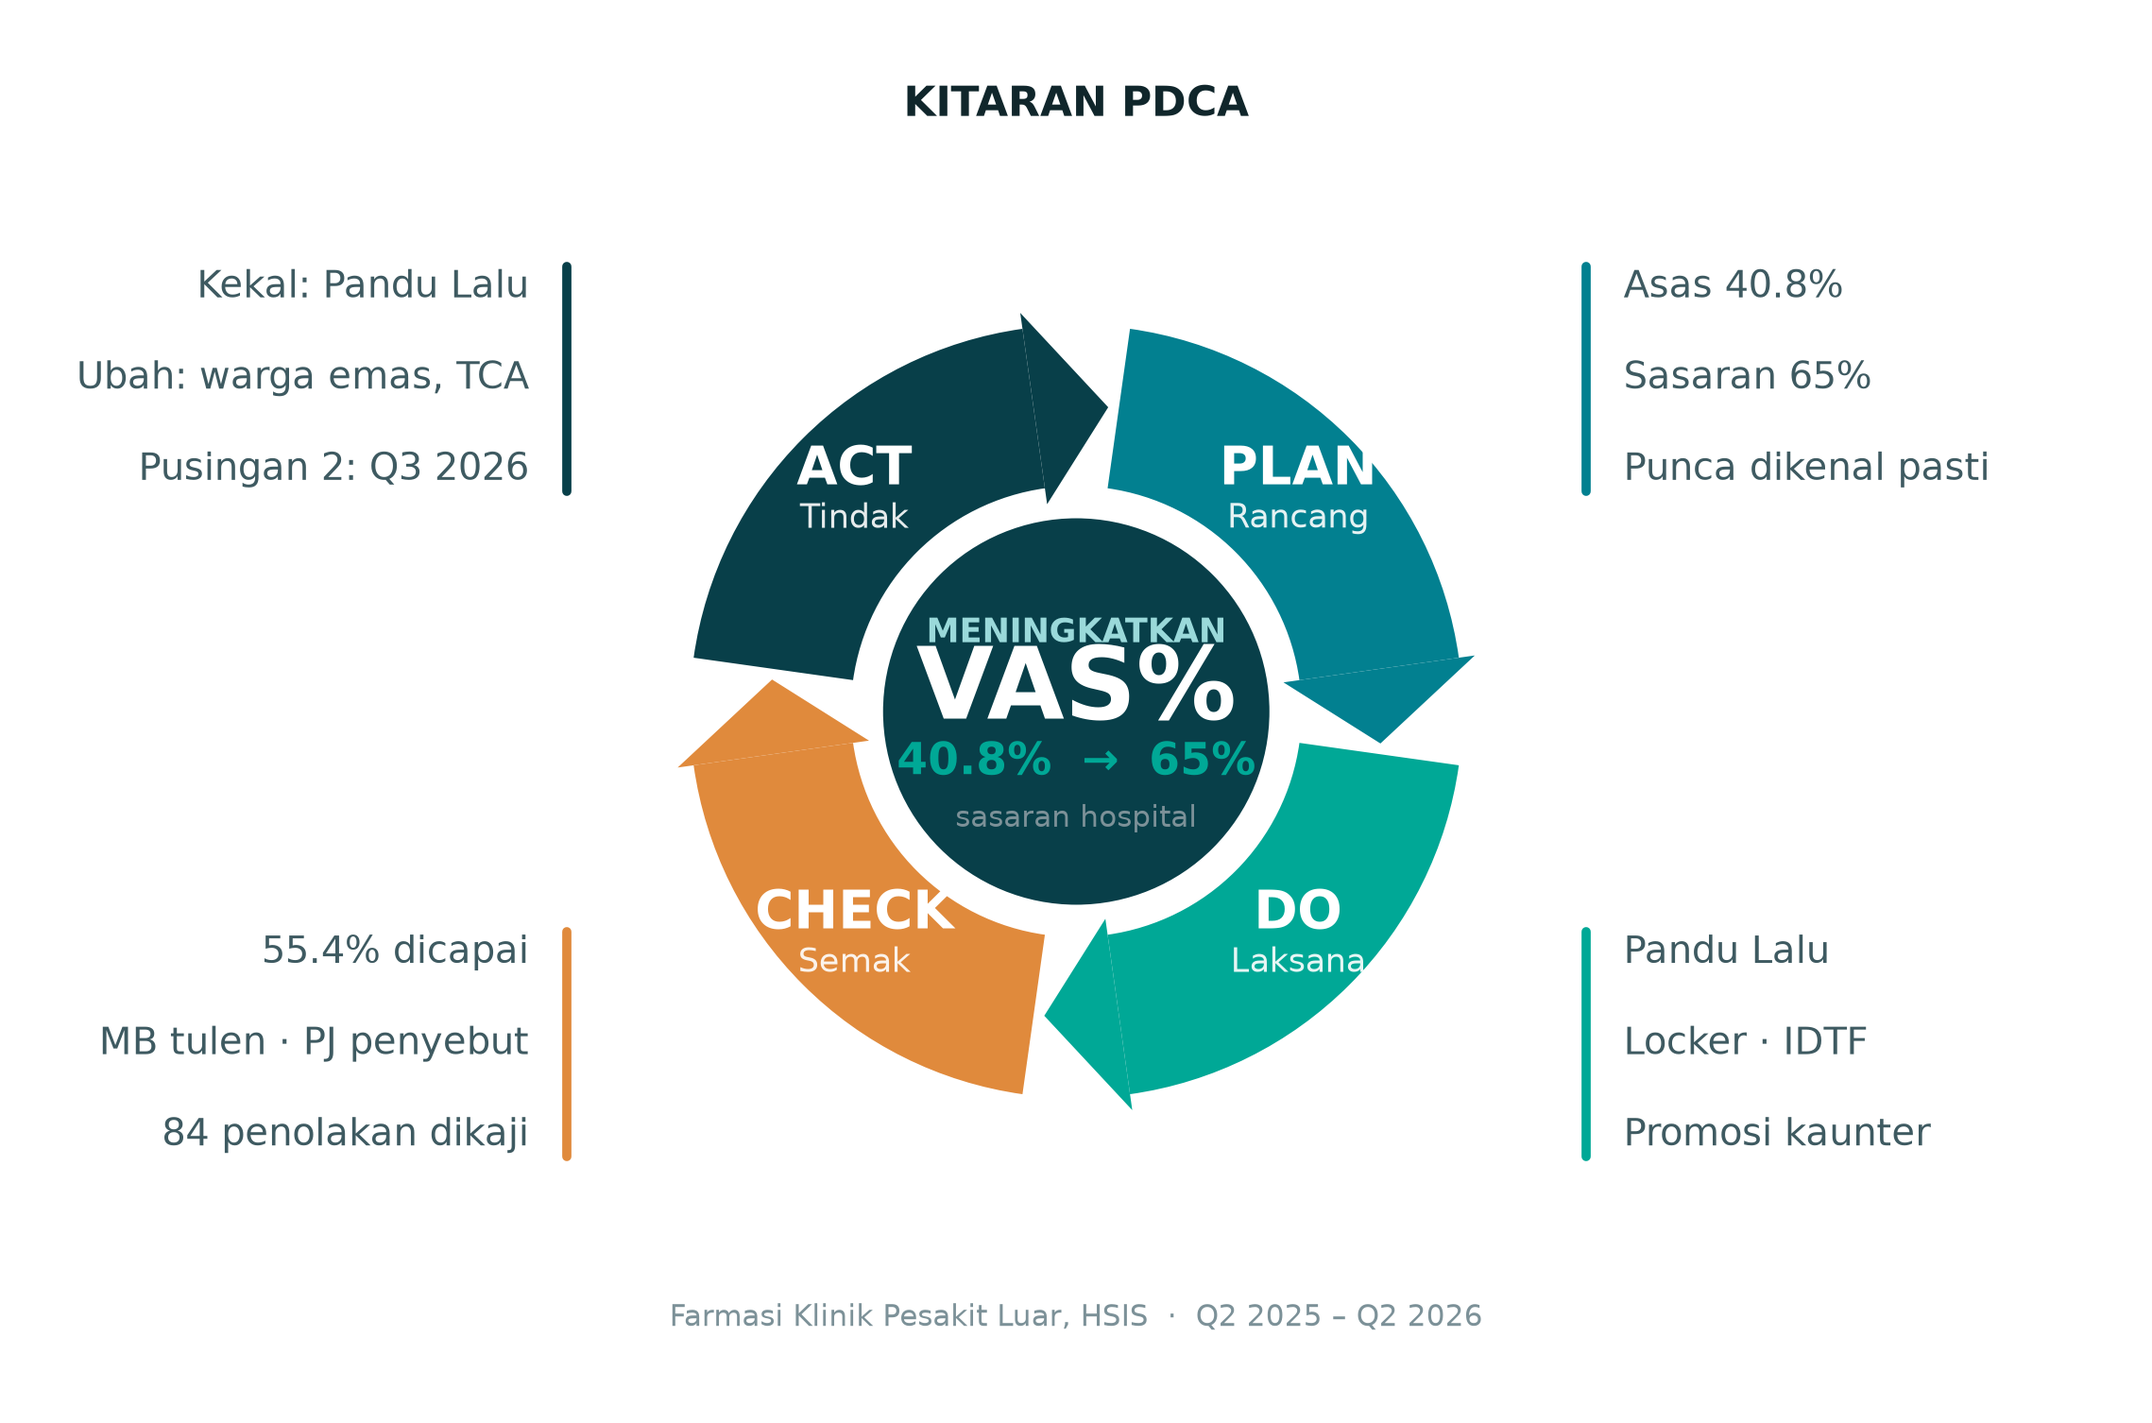
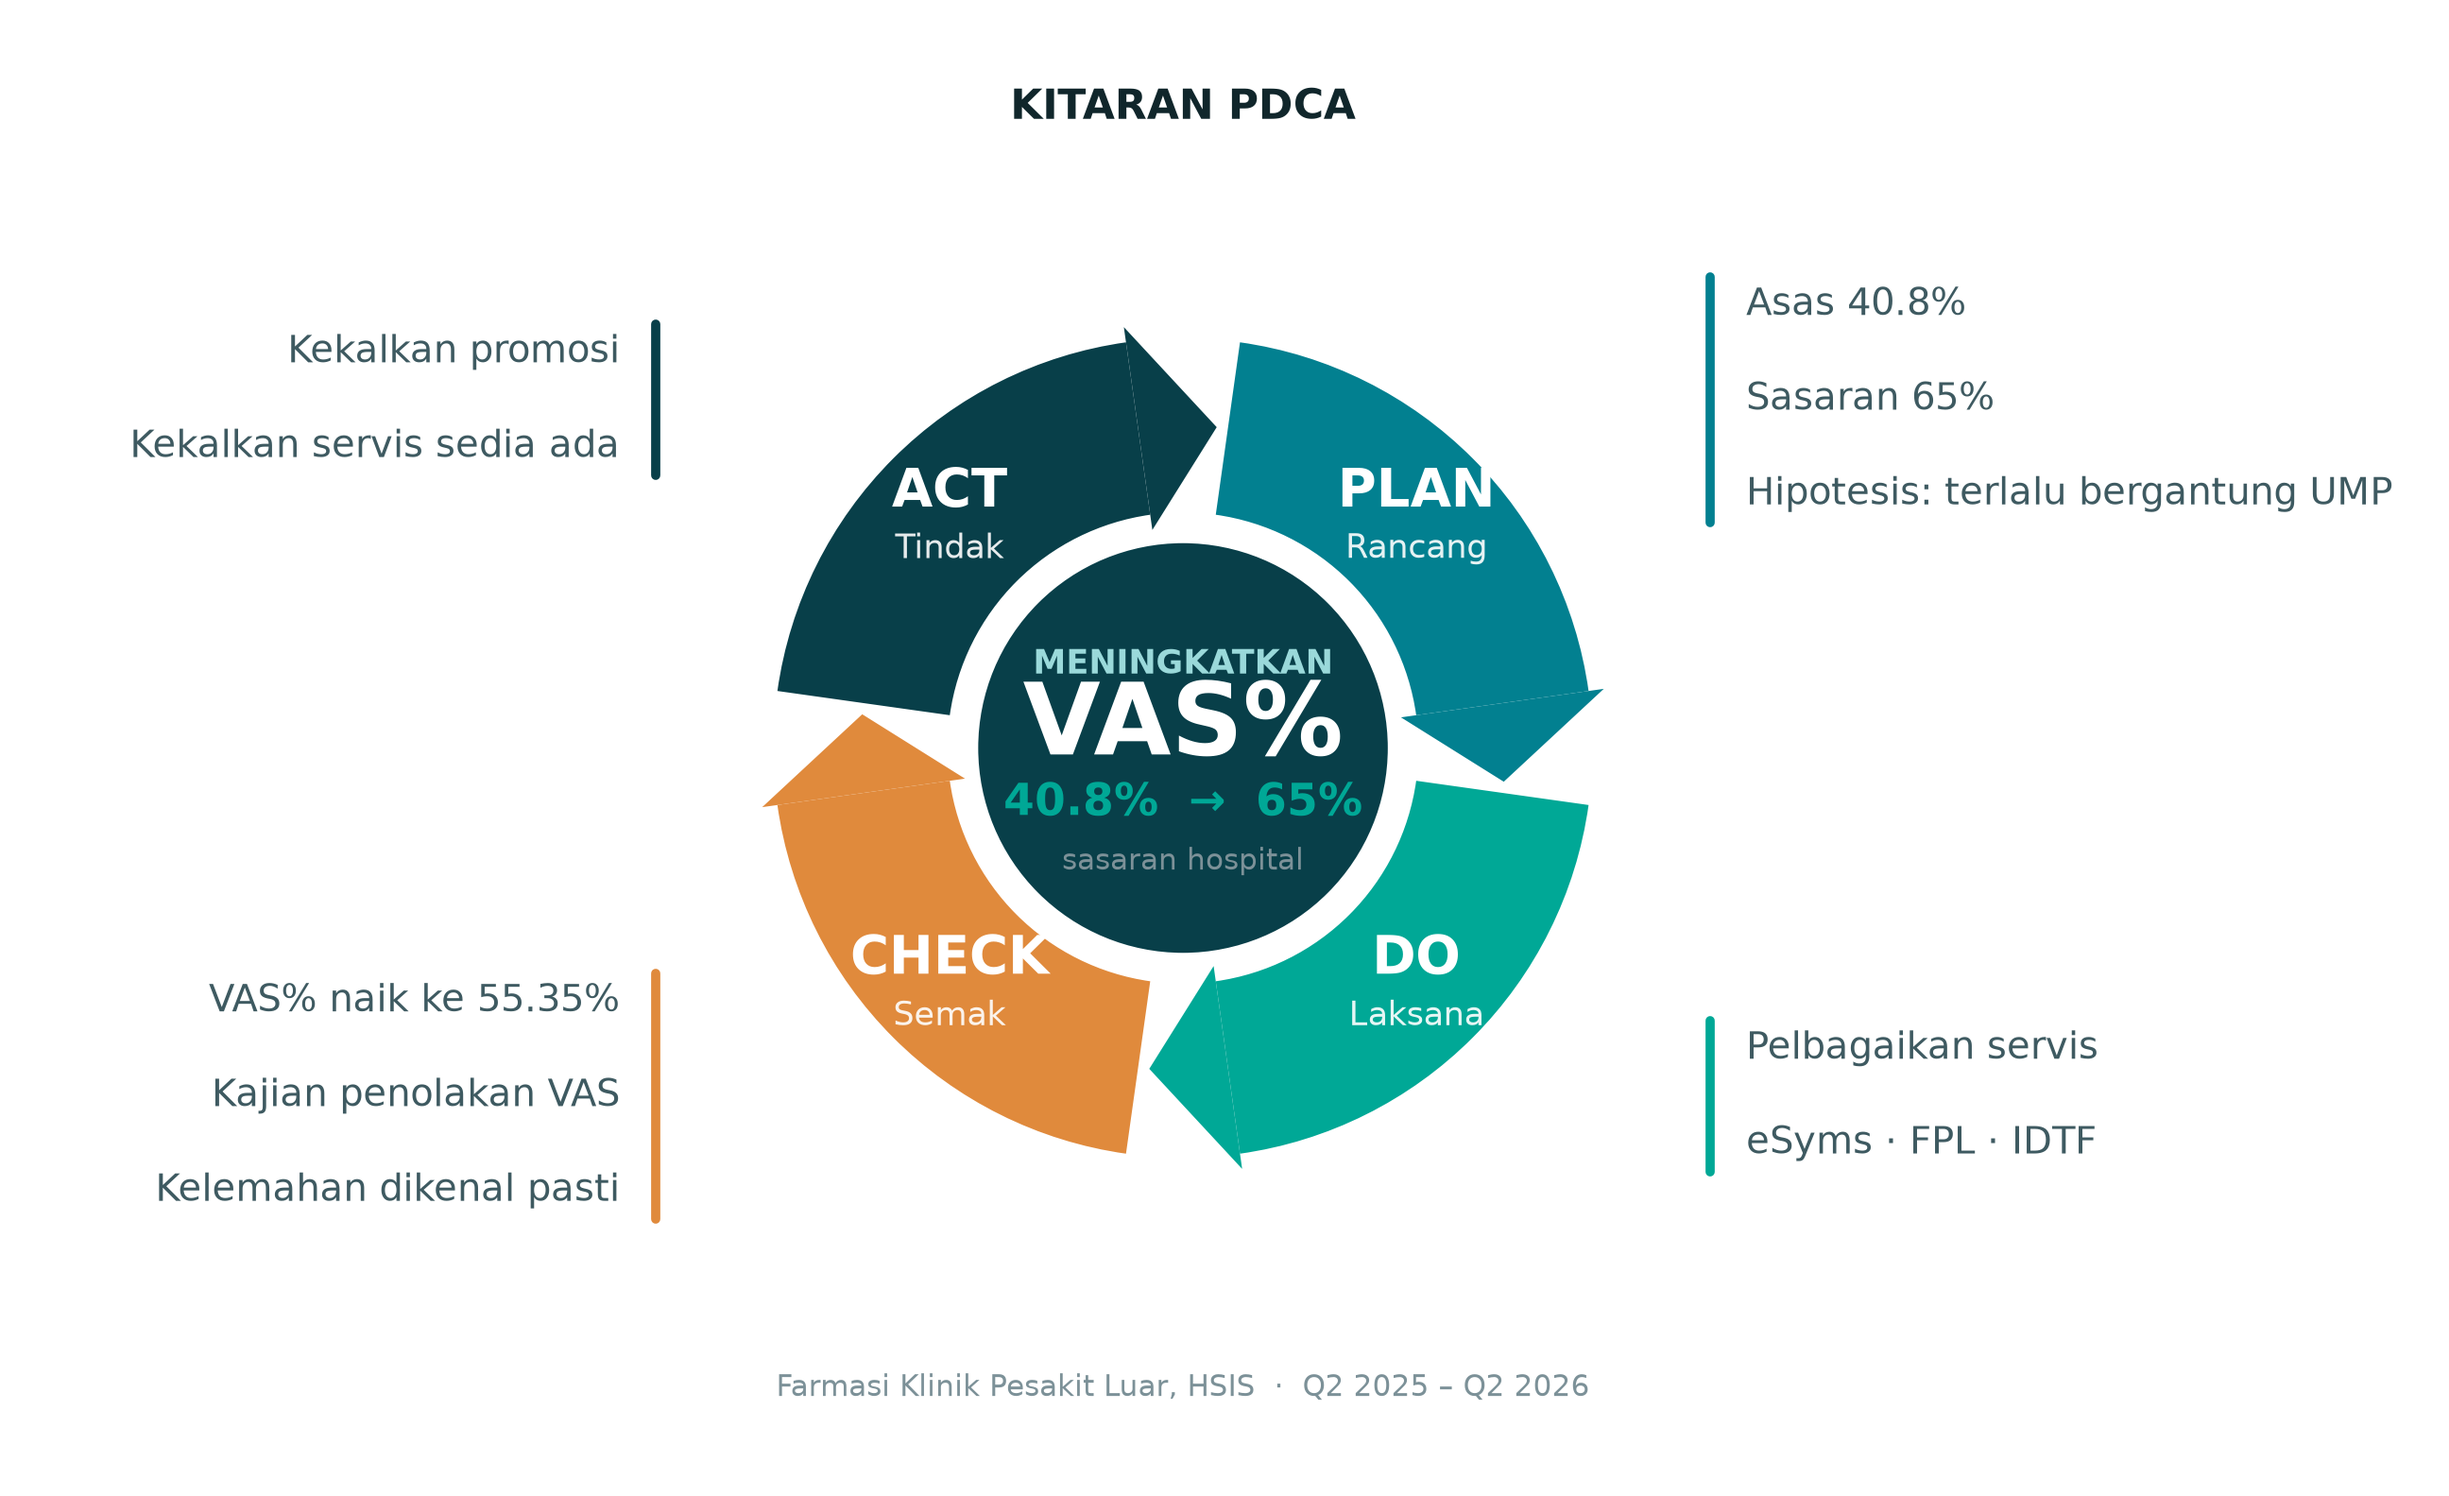
Reword PDCA diagram labels and enlarge the ring
Phase labels follow the wording supplied by the pharmacy team: the UMP
dependency hypothesis under Plan, service diversification under Do, the
55.35% result plus the rejection study under Check, and sustaining the
current promotion and services under Act.

Item blocks now centre for any number of entries, and the ring is scaled
up so phase labels stay inside the band on the wider canvas.

Claude-Session: https://claude.ai/code/session_01WfmAN69xzS4NUgAA8zD4ah

diff --git a/pdca_diagram.py b/pdca_diagram.py
@@ -22,33 +22,33 @@ BODY = '#3E5A61'
 MUTED = '#7C9198'
 WHITE = '#FFFFFF'
 
-R_IN, R_OUT = 0.42, 0.72
+R_IN, R_OUT = 0.46, 0.80
 R_MID = (R_IN + R_OUT) / 2
-R_CENTRE = 0.36
+R_CENTRE = 0.40
 HEAD = 14          # darjah, panjang mata anak panah
-TX = 1.02          # kedudukan mendatar blok teks
+TX = 1.10          # kedudukan mendatar blok teks
 
 # Arah jam: Plan (atas kanan) -> Do (bawah kanan) -> Check (bawah kiri) -> Act (atas kiri).
 # Wedge dilukis lawan jam dari a1 ke a2; hujung arah jam ialah a1, tempat mata panah.
 PHASES = [
     dict(key='PLAN', word='Rancang', color=TEAL, a1=8, a2=82,
-         items=['Asas 40.8%', 'Sasaran 65%', 'Punca dikenal pasti'],
-         tx=TX, ty=0.62, ha='left'),
+         items=['Asas 40.8%', 'Sasaran 65%', 'Hipotesis: terlalu bergantung UMP'],
+         tx=TX, ty=0.68, ha='left'),
     dict(key='DO', word='Laksana', color=SEA, a1=278, a2=352,
-         items=['Pandu Lalu', 'Locker · IDTF', 'Promosi kaunter'],
-         tx=TX, ty=-0.62, ha='left'),
+         items=['Pelbagaikan servis', 'eSyms · FPL · IDTF'],
+         tx=TX, ty=-0.68, ha='left'),
     dict(key='CHECK', word='Semak', color=AMBER, a1=188, a2=262,
-         items=['55.4% dicapai', 'MB tulen · PJ penyebut', '84 penolakan dikaji'],
-         tx=-TX, ty=-0.62, ha='right'),
+         items=['VAS% naik ke 55.35%', 'Kajian penolakan VAS', 'Kelemahan dikenal pasti'],
+         tx=-TX, ty=-0.68, ha='right'),
     dict(key='ACT', word='Tindak', color=DEEP, a1=98, a2=172,
-         items=['Kekal: Pandu Lalu', 'Ubah: warga emas, TCA', 'Pusingan 2: Q3 2026'],
-         tx=-TX, ty=0.62, ha='right'),
+         items=['Kekalkan promosi', 'Kekalkan servis sedia ada'],
+         tx=-TX, ty=0.68, ha='right'),
 ]
 
-fig, ax = plt.subplots(figsize=(14, 9), dpi=200)
+fig, ax = plt.subplots(figsize=(15.5, 9.5), dpi=200)
 fig.patch.set_facecolor(WHITE)
-ax.set_xlim(-1.9, 1.9)
-ax.set_ylim(-1.22, 1.22)
+ax.set_xlim(-2.2, 2.2)
+ax.set_ylim(-1.35, 1.35)
 ax.set_aspect('equal')
 ax.axis('off')
 
@@ -71,32 +71,35 @@ for p in PHASES:
     mid = np.radians((p['a1'] + p['a2']) / 2)
     r_lab = R_MID + 0.015
     cx, cy = r_lab * np.cos(mid), r_lab * np.sin(mid)
-    ax.text(cx, cy + 0.035, p['key'], ha='center', va='center', color=WHITE,
+    ax.text(cx, cy + 0.042, p['key'], ha='center', va='center', color=WHITE,
             fontsize=20, fontweight='bold', zorder=4)
-    ax.text(cx, cy - 0.055, p['word'], ha='center', va='center', color=WHITE,
+    ax.text(cx, cy - 0.068, p['word'], ha='center', va='center', color=WHITE,
             fontsize=12.5, alpha=0.9, zorder=4)
 
+    step, n = 0.185, len(p['items'])
+    top = p['ty'] + step * (n - 1) / 2
     for i, it in enumerate(p['items']):
-        ax.text(p['tx'], p['ty'] + 0.17 - i * 0.17, it, ha=p['ha'], va='center',
+        ax.text(p['tx'], top - i * step, it, ha=p['ha'], va='center',
                 color=BODY, fontsize=14.5)
     bar_x = p['tx'] - 0.07 if p['ha'] == 'left' else p['tx'] + 0.07
-    ax.plot([bar_x, bar_x], [p['ty'] - 0.21, p['ty'] + 0.21], color=p['color'],
+    half = step * (n - 1) / 2 + 0.055
+    ax.plot([bar_x, bar_x], [p['ty'] - half, p['ty'] + half], color=p['color'],
             lw=3.5, solid_capstyle='round', zorder=1)
 
 # tujuan utama di tengah kitaran
 ax.add_patch(Circle((0, 0), R_CENTRE, facecolor=DEEP, edgecolor='none', zorder=5))
-ax.text(0, 0.145, 'MENINGKATKAN', ha='center', va='center', color=MINT,
+ax.text(0, 0.162, 'MENINGKATKAN', ha='center', va='center', color=MINT,
         fontsize=12.5, fontweight='bold', zorder=6)
-ax.text(0, 0.035, 'VAS%', ha='center', va='center', color=WHITE,
+ax.text(0, 0.038, 'VAS%', ha='center', va='center', color=WHITE,
         fontsize=38, fontweight='bold', zorder=6)
-ax.text(0, -0.095, '40.8%  →  65%', ha='center', va='center', color=SEA,
+ax.text(0, -0.108, '40.8%  →  65%', ha='center', va='center', color=SEA,
         fontsize=17, fontweight='bold', zorder=6)
-ax.text(0, -0.20, 'sasaran hospital', ha='center', va='center', color=MUTED,
+ax.text(0, -0.222, 'sasaran hospital', ha='center', va='center', color=MUTED,
         fontsize=11, zorder=6)
 
-ax.text(0, 1.13, 'KITARAN PDCA', ha='center', va='center', color=INK,
+ax.text(0, 1.25, 'KITARAN PDCA', ha='center', va='center', color=INK,
         fontsize=16, fontweight='bold')
-ax.text(0, -1.13, 'Farmasi Klinik Pesakit Luar, HSIS  ·  Q2 2025 – Q2 2026',
+ax.text(0, -1.25, 'Farmasi Klinik Pesakit Luar, HSIS  ·  Q2 2025 – Q2 2026',
         ha='center', va='center', color=MUTED, fontsize=11)
 
 fig.savefig(OUT, dpi=200, facecolor=WHITE, bbox_inches='tight', pad_inches=0.3)
